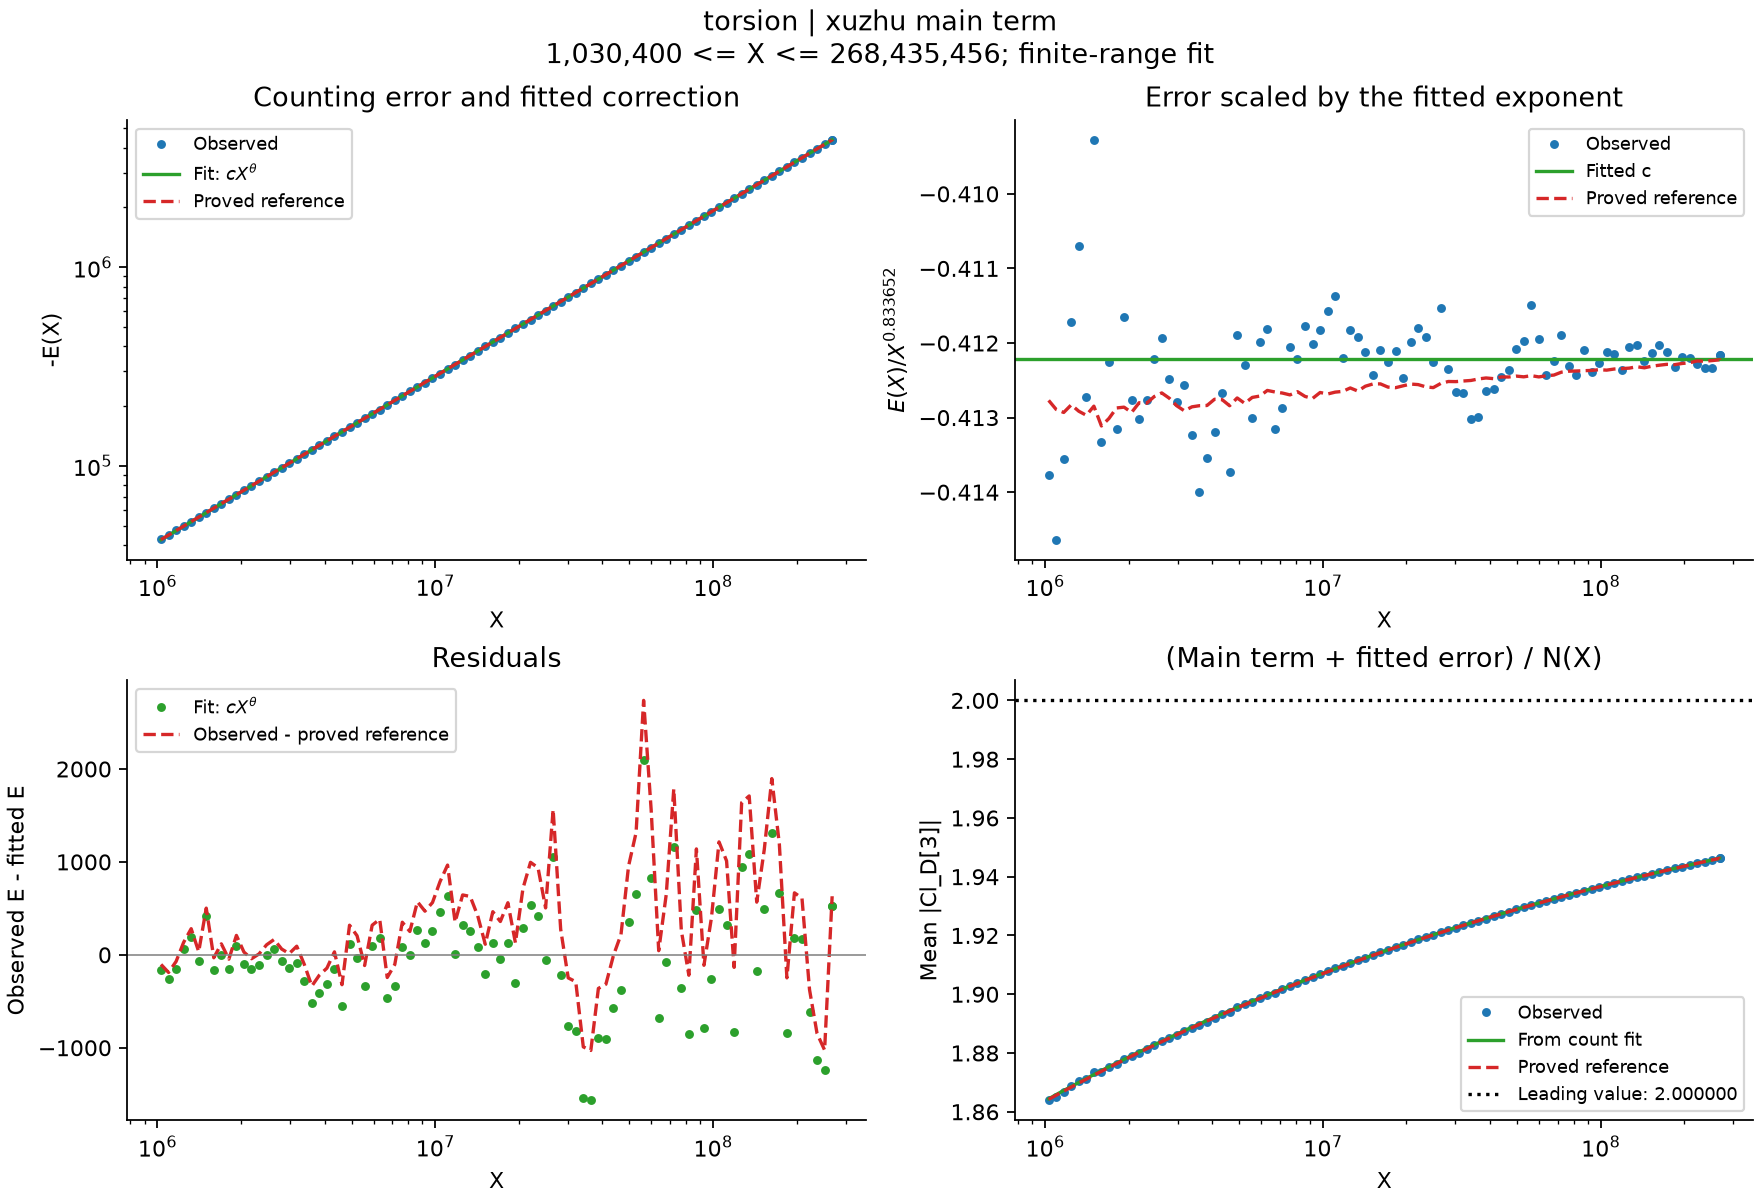
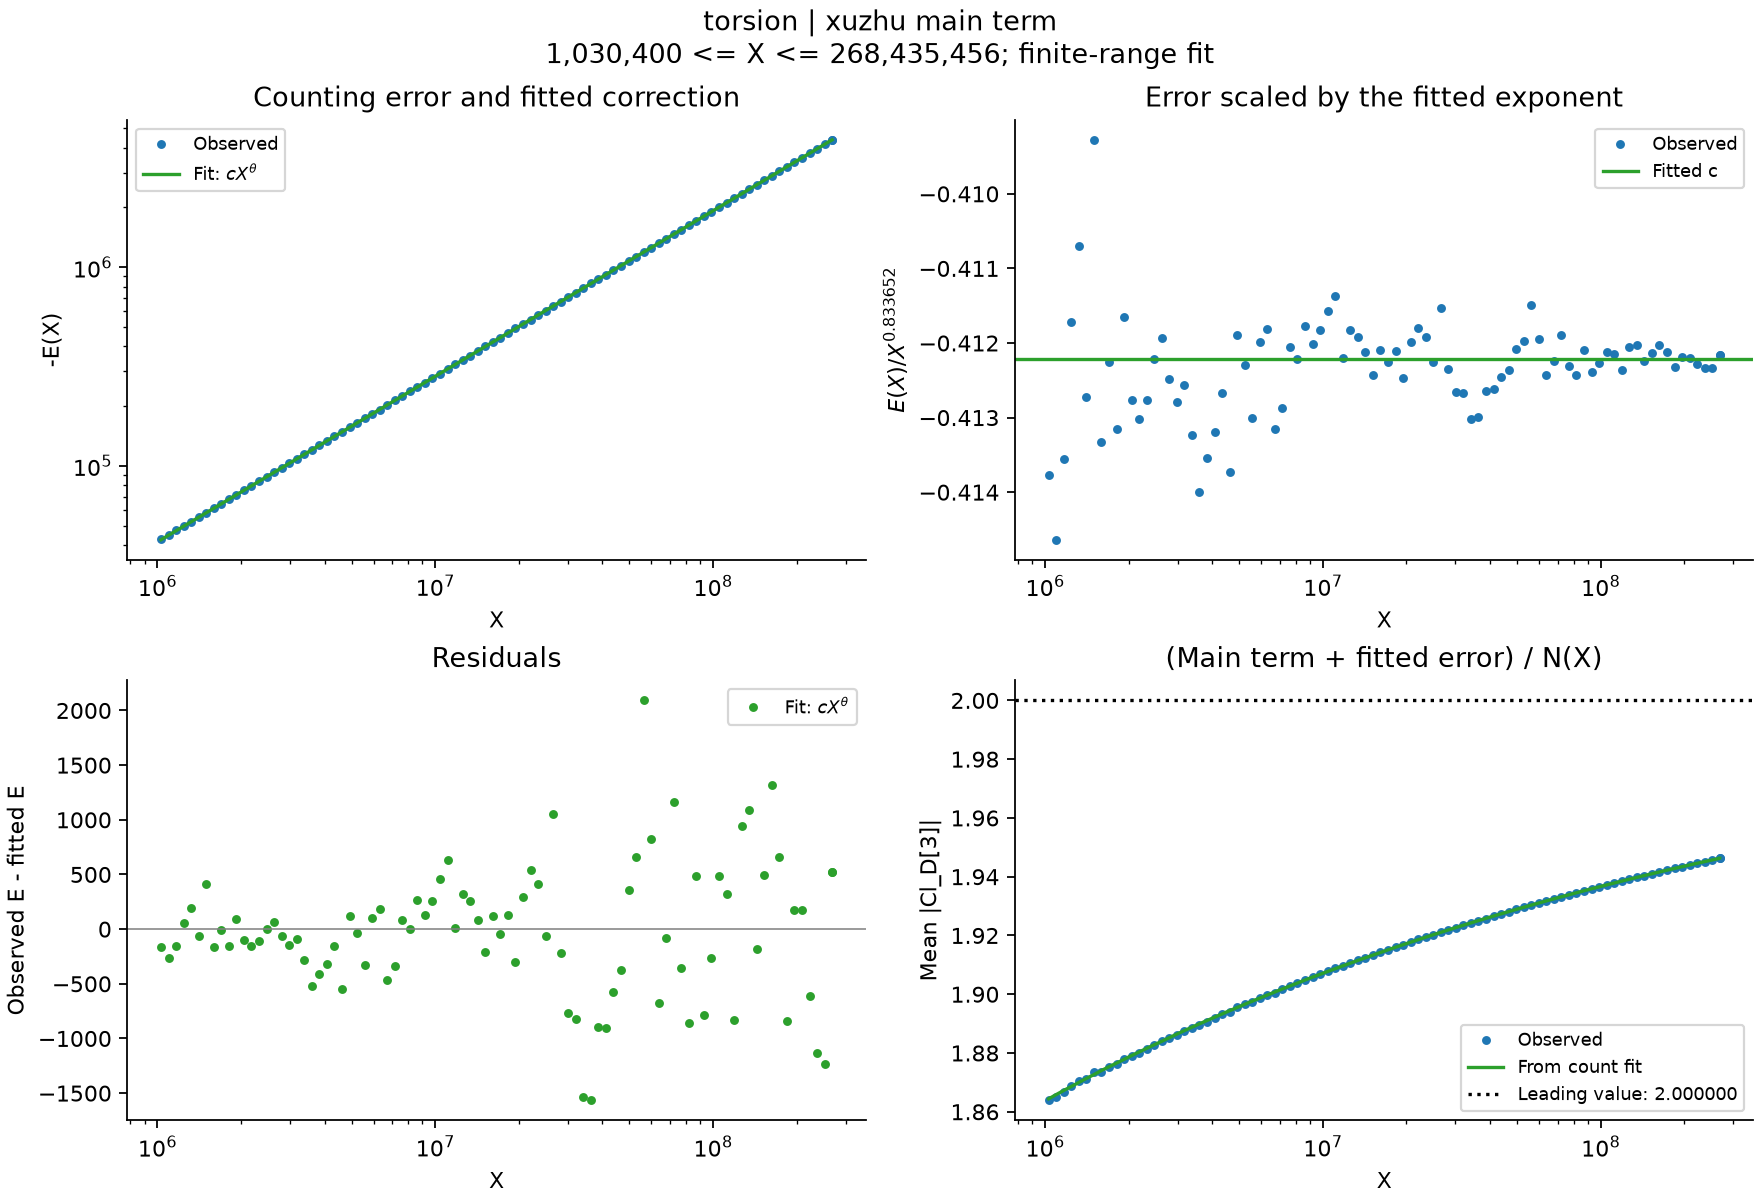
Remove paper-specific torsion reference and keep power fits

diff --git a/src/fitting.py b/src/fitting.py
@@ -8,7 +8,6 @@ import pandas as pd
 from scipy.optimize import minimize_scalar
 
 from experiments import models
-from experiments.reference import PRIME_BOUND, SOURCE, torsion_coefficient
 from src.statistics import DENSITY, P_DIVISIBLE, TARGETS, cl_probability, group_parts
 
 ROOT = Path(__file__).resolve().parents[1]
@@ -60,12 +59,6 @@ def load_series(observable="divisible", group=None, error="xuzhu", data_dir=None
                 "input_files": [{"path": str(p.relative_to(data_dir)),
                                  "sha256": hashlib.sha256(p.read_bytes()).hexdigest()} for p in paths],
                 "caution": CAUTION}
-    if observable == "torsion":
-        metadata["proved_reference"] = {
-            "formula": "S_3(X) = 2*N(X) + C*X**(5/6) + o(X**(5/6))",
-            "C_approx": torsion_coefficient(), "theta": 5/6,
-            "prime_bound": PRIME_BOUND, "source": SOURCE,
-        }
     return df, metadata
 
 
@@ -112,13 +105,6 @@ def predict(result, x):
     return models.power(np.asarray(x, float), **result["parameters"])
 
 
-def reference_error(df, metadata):
-    """The proved torsion correction in the same convention as the observed error."""
-    reference = metadata["proved_reference"]
-    return (2*df["N_fields"]-df["baseline"]
-            + reference["C_approx"]*df["X"]**reference["theta"])
-
-
 def select_range(df, xmin, xmax=None):
     mask = (df["X"] >= xmin) & np.isfinite(df["error"]) & (df["N_fields"] > 0)
     if xmax is not None:
@@ -142,9 +128,6 @@ def plot_fits(df, metadata, fits, output):
     ax.plot(x, sign*y, ".", label="Observed")
     for fit_index, fit in enumerate(fits):
         ax.plot(x, sign*predict(fit, x), color=f"C{fit_index+2}", label=r"Fit: $cX^\theta$")
-    theory = reference_error(df, metadata) if "proved_reference" in metadata else None
-    if theory is not None:
-        ax.plot(x, sign*theory, "--", color="C3", label="Proved reference")
     ax.set(xscale="log", yscale="log" if all_negative or all_positive else "symlog",
            xlabel="X", ylabel="-E(X)" if all_negative else "E(X)",
            title="Counting error and fitted correction")
@@ -153,16 +136,12 @@ def plot_fits(df, metadata, fits, output):
     theta = fits[0]["parameters"]["theta"]
     ax.plot(x, y/x**theta, ".", label="Observed")
     ax.axhline(fits[0]["parameters"]["c"], color="C2", label="Fitted c")
-    if theory is not None:
-        ax.plot(x, theory/x**theta, "--", color="C3", label="Proved reference")
     ax.set(xscale="log", xlabel="X", ylabel=rf"$E(X)/X^{{{theta:.6f}}}$",
            title="Error scaled by the fitted exponent")
     ax.legend(fontsize=8)
     ax = axes[1,0]
     for fit_index, fit in enumerate(fits):
         ax.plot(x, y-predict(fit, x), ".", color=f"C{fit_index+2}", label=r"Fit: $cX^\theta$")
-    if theory is not None:
-        ax.plot(x, y-theory, "--", color="C3", label="Observed - proved reference")
     ax.axhline(0, color="gray", linewidth=.7)
     ax.set(xscale="log", xlabel="X", ylabel="Observed E - fitted E", title="Residuals")
     ax.legend(fontsize=8)
@@ -171,9 +150,6 @@ def plot_fits(df, metadata, fits, output):
     for fit_index, fit in enumerate(fits):
         ax.plot(x, (df["baseline"]+predict(fit, x))/df["N_fields"],
                 color=f"C{fit_index+2}", label="From count fit")
-    if theory is not None:
-        ax.plot(x, (df["baseline"]+theory)/df["N_fields"], "--", color="C3",
-                label="Proved reference")
     leading = metadata["ratio_leading_term"]
     ax.axhline(leading, color="black", linestyle=":", label=f"Leading value: {leading:.6f}")
     ylabel = "Mean |Cl_D[3]|" if metadata["observable"] == "torsion" else "Proportion of fields"

diff --git a/experiments/calculations.py b/experiments/calculations.py
@@ -6,7 +6,6 @@ from pathlib import Path
 import pandas as pd
 
 from src.statistics import DENSITY, ETA3, P_DIVISIBLE, TARGETS, aut_size, cl_probability
-from experiments.reference import PRIME_BOUND, SOURCE, torsion_coefficient
 
 LABELS = {
     ("divisible", None): "Divisibility",
@@ -92,40 +91,8 @@ def write_calculations(data_dir, output_dir, results, sensitivity, requested_xmi
         label = LABELS[entry["observable"], entry["group"]]
         lines.append(f"| {label} | {fit['parameters']['c']:.9g} | "
                      f"{fit['parameters']['theta']:.9f} | {fit['RMSE']:.3f} |")
-    torsion_fit = next(entry["fit"] for entry in results if entry["observable"] == "torsion")
-    coefficient = torsion_coefficient()
-    coarser = torsion_coefficient(PRIME_BOUND//10)
     lines.extend([
-        "", "## Proved torsion reference: the two blackboard formulas", "",
-        r"With the identity included in $\mathrm{Cl}_D[3]$, the counting and mean forms are", "",
-        r"$$S_3(X)=\frac{6}{\pi^2}X+C_{\mathrm{tor}}X^{5/6}+o(X^{5/6}),$$", "",
-        r"$$\frac{S_3(X)}{N(X)}=2+\frac{C_{\mathrm{tor}}}{\rho}X^{-1/6}+o(X^{-1/6}).$$", "",
-        "These are two normalizations of the same proved result. "
-        r"The leading count coefficient is $6/\pi^2$, consistent with mean 2. "
-        r"The count coefficient $C_{\mathrm{tor}}$ and mean coefficient $C_{\mathrm{tor}}/\rho$ are different.", "",
-        f"[Bhargava–Shankar–Tsimerman, Theorem 4]({SOURCE}) gives "
-        r"$S_3(X)=2N(X)+C_{\mathrm{tor}}X^{5/6}+o(X^{5/6})$, with", "",
-        r"$$C_{\mathrm{tor}}=\frac{8\sqrt3\,\zeta(1/3)}{5\Gamma(2/3)^3}"
-        r"\prod_{p\ \mathrm{prime}}\left(1-\frac{p^{1/3}+1}{p(p+1)}\right).$$", "",
-        r"Here $\zeta$ is the Riemann zeta function and $\Gamma$ is the gamma function. "
-        f"The product is truncated at primes <= {PRIME_BOUND:,}, giving C_tor approximately {coefficient:.9f}. "
-        f"Using primes <= {PRIME_BOUND//10:,} gives {coarser:.9f}; the change is {abs(coefficient-coarser):.2g}. "
-        "This is a truncation check, not a certified error bound.", "",
-        "| Normalization | Proved coefficient (approx.) | Coefficient from free count fit | Proved exponent | Fitted / derived exponent |",
-        "|---|---:|---:|---:|---:|",
-        f"| Count error | {coefficient:.9f} | {torsion_fit['parameters']['c']:.9f} | 5/6 = {5/6:.9f} | "
-        f"{torsion_fit['parameters']['theta']:.9f} |",
-        f"| Mean minus 2 | {coefficient/DENSITY:.9f} | {torsion_fit['parameters']['c']/DENSITY:.9f} | "
-        f"-1/6 = {-1/6:.9f} | {torsion_fit['parameters']['theta']-1:.9f} |", "",
-        r"The mean row is derived from the count fit using $N(X)\sim\rho X$; it is not another fit. "
-        "The free-power coefficient and exponent are estimated jointly, so a coefficient difference "
-        "also reflects the exponent difference. The torsion plot uses the reference mean curve "
-        r"$2+C_{\mathrm{tor}}X^{5/6}/N(X)$ with the actual field count.", "",
-        r"The board leaves secondary coefficients as $c$ without numerical values. "
-        "The numerical torsion reference above comes from Theorem 4. "
-        "The board labels the divisibility limit as a conjecture; CL proportions for individual Sylow types "
-        "are also predictions. No proved secondary coefficient is assigned to those fits.", "",
-        "## Curves shown in the ratio plots", "",
+        "", "## Curves shown in the ratio plots", "",
         "Add the fitted error to the fixed main term, then divide by the actual field count:", "",
         "| Plot | Observed ratio | Curve from the count fit |",
         "|---|---|---|",

diff --git a/tests/test_statistics.py b/tests/test_statistics.py
@@ -9,8 +9,7 @@ import pytest
 
 from scripts.build_stats import cpp_buckets, python_buckets, input_files, checkpoints
 from src.dataset import FieldRecord, p_part
-from src.fitting import load_series, fit_model, predict, reference_error, select_range, ROOT
-from experiments.reference import torsion_coefficient
+from src.fitting import load_series, fit_model, predict, select_range, ROOT
 from src.statistics import (aut_size, cl_probability, ETA3, TARGETS, P_DIVISIBLE,
                             DENSITY, group_parts, summary_row, RESIDUES, BLOCK_SIZE)
 
@@ -142,18 +141,3 @@ def test_c9_fit_reference_value():
     df = select_range(df, 1e6)
     fit = fit_model(df.X, df.error)
     assert fit["parameters"]["theta"] == pytest.approx(.83299775, abs=2e-6)
-
-
-def test_proved_torsion_coefficient():
-    assert torsion_coefficient(100000) == pytest.approx(-.414804621730, abs=1e-11)
-    assert abs(torsion_coefficient()-torsion_coefficient(100000)) < 2e-5
-
-
-def test_proved_reference_matches_both_count_normalizations():
-    for convention in ["xuzhu", "conditional"]:
-        df, metadata = load_series("torsion", error=convention)
-        expected = 2*df.N_fields+torsion_coefficient()*df.X**(5/6)
-        assert np.allclose(df.baseline+reference_error(df, metadata), expected)
-    for observable, group in [("divisible", None), ("sylow", "C9")]:
-        _, metadata = load_series(observable, group)
-        assert "proved_reference" not in metadata

diff --git a/results/calculations.md b/results/calculations.md
@@ -69,31 +69,6 @@ These are free-power fits to counting errors under the linear main terms above.
 | Sylow C9 | -0.0185352474 | 0.832990102 | 574.539 |
 | Sylow C3 x C3 | -0.0135183885 | 0.845309608 | 170.032 |
 
-## Proved torsion reference: the two blackboard formulas
-
-With the identity included in $\mathrm{Cl}_D[3]$, the counting and mean forms are
-
-$$S_3(X)=\frac{6}{\pi^2}X+C_{\mathrm{tor}}X^{5/6}+o(X^{5/6}),$$
-
-$$\frac{S_3(X)}{N(X)}=2+\frac{C_{\mathrm{tor}}}{\rho}X^{-1/6}+o(X^{-1/6}).$$
-
-These are two normalizations of the same proved result. The leading count coefficient is $6/\pi^2$, consistent with mean 2. The count coefficient $C_{\mathrm{tor}}$ and mean coefficient $C_{\mathrm{tor}}/\rho$ are different.
-
-[Bhargava–Shankar–Tsimerman, Theorem 4](https://arxiv.org/pdf/1005.0672) gives $S_3(X)=2N(X)+C_{\mathrm{tor}}X^{5/6}+o(X^{5/6})$, with
-
-$$C_{\mathrm{tor}}=\frac{8\sqrt3\,\zeta(1/3)}{5\Gamma(2/3)^3}\prod_{p\ \mathrm{prime}}\left(1-\frac{p^{1/3}+1}{p(p+1)}\right).$$
-
-Here $\zeta$ is the Riemann zeta function and $\Gamma$ is the gamma function. The product is truncated at primes <= 1,000,000, giving C_tor approximately -0.414786002. Using primes <= 100,000 gives -0.414804622; the change is 1.9e-05. This is a truncation check, not a certified error bound.
-
-| Normalization | Proved coefficient (approx.) | Coefficient from free count fit | Proved exponent | Fitted / derived exponent |
-|---|---:|---:|---:|---:|
-| Count error | -0.414786002 | -0.412214530 | 5/6 = 0.833333333 | 0.833651532 |
-| Mean minus 2 | -1.364591251 | -1.356131447 | -1/6 = -0.166666667 | -0.166348468 |
-
-The mean row is derived from the count fit using $N(X)\sim\rho X$; it is not another fit. The free-power coefficient and exponent are estimated jointly, so a coefficient difference also reflects the exponent difference. The torsion plot uses the reference mean curve $2+C_{\mathrm{tor}}X^{5/6}/N(X)$ with the actual field count.
-
-The board leaves secondary coefficients as $c$ without numerical values. The numerical torsion reference above comes from Theorem 4. The board labels the divisibility limit as a conjecture; CL proportions for individual Sylow types are also predictions. No proved secondary coefficient is assigned to those fits.
-
 ## Curves shown in the ratio plots
 
 Add the fitted error to the fixed main term, then divide by the actual field count:

diff --git a/README.md b/README.md
@@ -42,8 +42,6 @@ Both $c$ and $\theta$ are estimated separately for each statistic by unweighted 
 
 Sylow fits cover exactly $C_3$, $C_9$, and $C_3\times C_3$. The report lists their fitted $c,\theta$ side by side and compares observed proportions with $P_{\mathrm{CL}}(G_3)$.
 
-For torsion, the report also compares the fit with the proved secondary coefficient and exponent $5/6$ from [Bhargava–Shankar–Tsimerman, Theorem 4](https://arxiv.org/pdf/1005.0672). Its count and mean formulas are two normalizations of the same result.
-
 ## What the ratio plots show
 
 Each plot compares the observed ratio with **(fixed main term + fitted error) / actual field count**:
